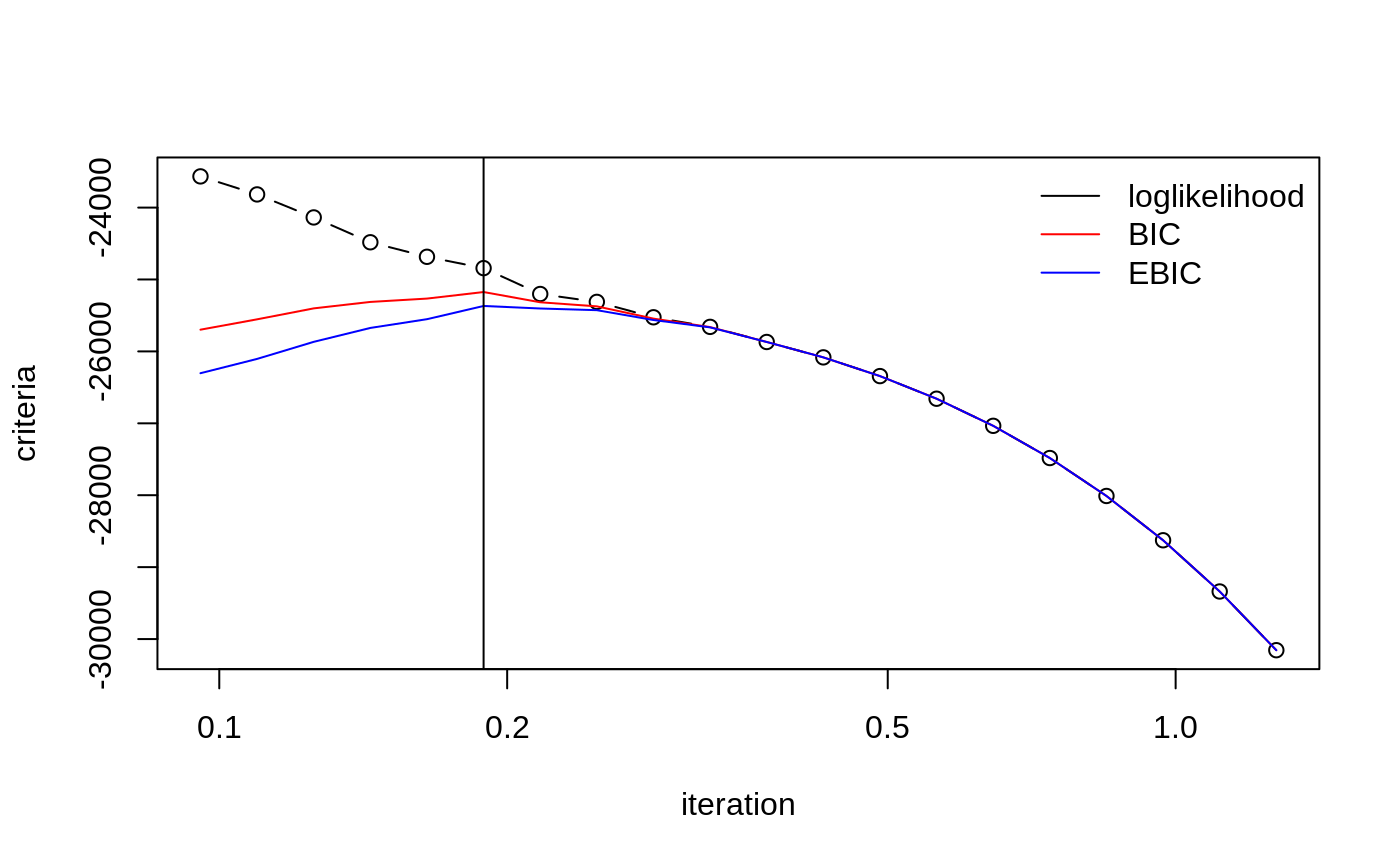
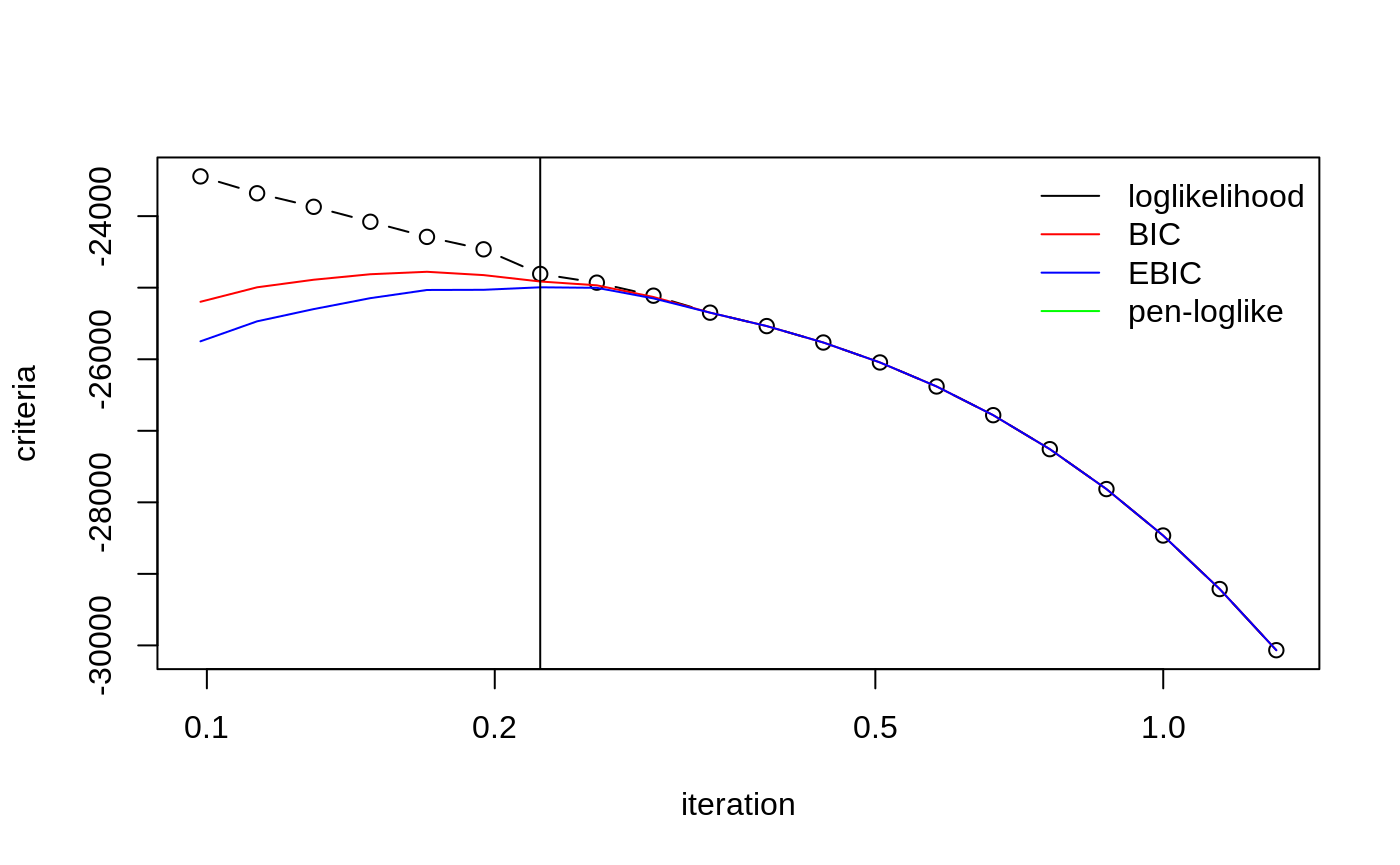
Deploy jchiquet/janine to github.com/jchiquet/janine.git:gh-pages

diff --git a/articles/janine_example.html b/articles/janine_example.html
@@ -130,31 +130,32 @@
 <p>The overall amount of sparsity is tuned by the argument <code>penalties</code>, and the number of blocks in the SBM is fixed by argument <code>n_blocks</code>. By default, janine is fitted on a vector of penalties automaticcaly generated.</p>
 <div class="sourceCode" id="cb6"><html><body><pre class="r">out  
 #&gt;  Adjusting 20 SBM-structured GGM with sparse adaptive regularisation 
-#&gt;  sparsifying penalty = 1.274335 
-    sparsifying penalty = 1.111927 
-    sparsifying penalty = 0.9702173 
-    sparsifying penalty = 0.8465678 
-    sparsifying penalty = 0.7386767 
-    sparsifying penalty = 0.6445359 
-    sparsifying penalty = 0.5623929 
-    sparsifying penalty = 0.4907186 
-    sparsifying penalty = 0.4281789 
-    sparsifying penalty = 0.3736095 
-    sparsifying penalty = 0.3259948 
-    sparsifying penalty = 0.2844483 
-    sparsifying penalty = 0.2481967 
-    sparsifying penalty = 0.2165652 
-    sparsifying penalty = 0.188965 
-    sparsifying penalty = 0.1648823 
-    sparsifying penalty = 0.1438689 
-    sparsifying penalty = 0.1255335 
-    sparsifying penalty = 0.1095348 
-    sparsifying penalty = 0.09557513 </pre></body></html></div>
+#&gt;  sparsifying penalty = 1.312959 
+    sparsifying penalty = 1.145629 
+    sparsifying penalty = 0.9996238 
+    sparsifying penalty = 0.8722265 
+    sparsifying penalty = 0.7610654 
+    sparsifying penalty = 0.6640712 
+    sparsifying penalty = 0.5794385 
+    sparsifying penalty = 0.5055918 
+    sparsifying penalty = 0.4411566 
+    sparsifying penalty = 0.3849333 
+    sparsifying penalty = 0.3358754 
+    sparsifying penalty = 0.2930697 
+    sparsifying penalty = 0.2557193 
+    sparsifying penalty = 0.2231291 
+    sparsifying penalty = 0.1946924 
+    sparsifying penalty = 0.1698798 
+    sparsifying penalty = 0.1482294 
+    sparsifying penalty = 0.1293383 
+    sparsifying penalty = 0.1128547 
+    sparsifying penalty = 0.09847193 </pre></body></html></div>
 <p>In this setting, the criteria looks good but probably need to be adapted cause they choose a too sparse model</p>
 <div class="sourceCode" id="cb7"><html><body><pre class="r"><span class="fu"><a href="https://rdrr.io/r/graphics/plot.html">plot</a></span>(<span class="no">out</span>$<span class="no">criteria</span>$<span class="no">penalty</span>, <span class="no">out</span>$<span class="no">criteria</span>$<span class="no">loglik</span>, <span class="kw">type</span> <span class="kw">=</span> <span class="st">"b"</span>, <span class="kw">xlab</span> <span class="kw">=</span> <span class="st">'iteration'</span>, <span class="kw">ylab</span> <span class="kw">=</span> <span class="st">'criteria'</span>, <span class="kw">log</span> <span class="kw">=</span> <span class="st">"x"</span>)
 <span class="fu"><a href="https://rdrr.io/r/graphics/lines.html">lines</a></span>(<span class="no">out</span>$<span class="no">criteria</span>$<span class="no">penalty</span>, <span class="no">out</span>$<span class="no">criteria</span>$<span class="no">BIC</span>, <span class="kw">col</span> <span class="kw">=</span> <span class="st">"red"</span>)
 <span class="fu"><a href="https://rdrr.io/r/graphics/lines.html">lines</a></span>(<span class="no">out</span>$<span class="no">criteria</span>$<span class="no">penalty</span>, <span class="no">out</span>$<span class="no">criteria</span>$<span class="no">EBIC</span>, <span class="kw">col</span> <span class="kw">=</span> <span class="st">"blue"</span>)
-<span class="fu"><a href="https://rdrr.io/r/graphics/legend.html">legend</a></span>(<span class="st">'topright'</span>, <span class="kw">bty</span> <span class="kw">=</span> <span class="st">"n"</span>, <span class="fu"><a href="https://rdrr.io/r/base/c.html">c</a></span>(<span class="st">"loglikelihood"</span>, <span class="st">"BIC"</span>, <span class="st">"EBIC"</span>), <span class="kw">col</span> <span class="kw">=</span> <span class="fu"><a href="https://rdrr.io/r/base/c.html">c</a></span>(<span class="st">"black"</span>, <span class="st">"red"</span>, <span class="st">"blue"</span>), <span class="kw">lty</span> <span class="kw">=</span> <span class="fu"><a href="https://rdrr.io/r/base/c.html">c</a></span>(<span class="fl">1</span>,<span class="fl">1</span>,<span class="fl">1</span>))
+<span class="fu"><a href="https://rdrr.io/r/graphics/lines.html">lines</a></span>(<span class="no">out</span>$<span class="no">criteria</span>$<span class="no">penalty</span>, <span class="no">out</span>$<span class="no">criteria</span>$<span class="no">objective</span>, <span class="kw">col</span> <span class="kw">=</span> <span class="st">"green"</span>)
+<span class="fu"><a href="https://rdrr.io/r/graphics/legend.html">legend</a></span>(<span class="st">'topright'</span>, <span class="kw">bty</span> <span class="kw">=</span> <span class="st">"n"</span>, <span class="fu"><a href="https://rdrr.io/r/base/c.html">c</a></span>(<span class="st">"loglikelihood"</span>, <span class="st">"BIC"</span>, <span class="st">"EBIC"</span>, <span class="st">"pen-loglike"</span>), <span class="kw">col</span> <span class="kw">=</span> <span class="fu"><a href="https://rdrr.io/r/base/c.html">c</a></span>(<span class="st">"black"</span>, <span class="st">"red"</span>, <span class="st">"blue"</span>, <span class="st">"green"</span>), <span class="kw">lty</span> <span class="kw">=</span> <span class="fu"><a href="https://rdrr.io/r/base/c.html">c</a></span>(<span class="fl">1</span>,<span class="fl">1</span>,<span class="fl">1</span>,<span class="fl">1</span>))
 <span class="fu"><a href="https://rdrr.io/r/graphics/abline.html">abline</a></span>(<span class="kw">v</span> <span class="kw">=</span> <span class="no">out</span>$<span class="no">criteria</span>$<span class="no">penalty</span>[<span class="fu"><a href="https://rdrr.io/r/base/which.min.html">which.max</a></span>(<span class="no">out</span>$<span class="no">criteria</span>$<span class="no">EBIC</span>)])</pre></body></html></div>
 <p><img src="janine_example_files/figure-html/criteria_plot-1.png" width="700"></p>
 <p>The estimation is visually good too if we consider the more dense model, so we need to think a bit more about the model selection issue.</p>

diff --git a/reference/janine.html b/reference/janine.html
@@ -139,8 +139,10 @@
   <span class='no'>data</span>,
   <span class='no'>n_blocks</span>,
   <span class='kw'>penalties</span> <span class='kw'>=</span> <span class='kw'>NULL</span>,
+  <span class='kw'>alpha</span> <span class='kw'>=</span> <span class='fl'>0</span>,
   <span class='kw'>control_optim</span> <span class='kw'>=</span> <span class='fu'><a href='https://rdrr.io/r/base/list.html'>list</a></span>(<span class='kw'>epsilon</span> <span class='kw'>=</span> <span class='fl'>1e-04</span>, <span class='kw'>max_iter</span> <span class='kw'>=</span> <span class='fl'>20</span>, <span class='kw'>trace</span> <span class='kw'>=</span> <span class='fl'>1</span>, <span class='kw'>n_cores</span> <span class='kw'>=</span> <span class='fl'>4</span>),
-  <span class='kw'>control_penalties</span> <span class='kw'>=</span> <span class='fu'><a href='https://rdrr.io/r/base/list.html'>list</a></span>(<span class='kw'>min_ratio</span> <span class='kw'>=</span> <span class='fl'>0.1</span>, <span class='kw'>length</span> <span class='kw'>=</span> <span class='fl'>20</span>, <span class='kw'>diagonal</span> <span class='kw'>=</span> <span class='fl'>TRUE</span>)
+  <span class='kw'>control_penalties</span> <span class='kw'>=</span> <span class='fu'><a href='https://rdrr.io/r/base/list.html'>list</a></span>(<span class='kw'>min_ratio</span> <span class='kw'>=</span> <span class='fl'>0.1</span>, <span class='kw'>length</span> <span class='kw'>=</span> <span class='fl'>20</span>, <span class='kw'>diagonal</span> <span class='kw'>=</span> <span class='fl'>TRUE</span>, <span class='kw'>weighted</span> <span class='kw'>=</span>
+    <span class='fl'>TRUE</span>)
 )</pre>
 
     <h2 class="hasAnchor" id="arguments"><a class="anchor" href="#arguments"></a>Arguments</h2>
@@ -158,6 +160,10 @@
       <th>penalties</th>
       <td><p>a vector of postive real number in decreasing order tuning the network sparsity. The default (NULL) generates
 an hopefully appropriate collection of penalties.</p></td>
+    </tr>
+    <tr>
+      <th>alpha</th>
+      <td><p>a positive scalar tuning the mixture between the weighted-sparse penlaty and the trace-Laplacian regularisation.</p></td>
     </tr>
     <tr>
       <th>control_optim</th>
